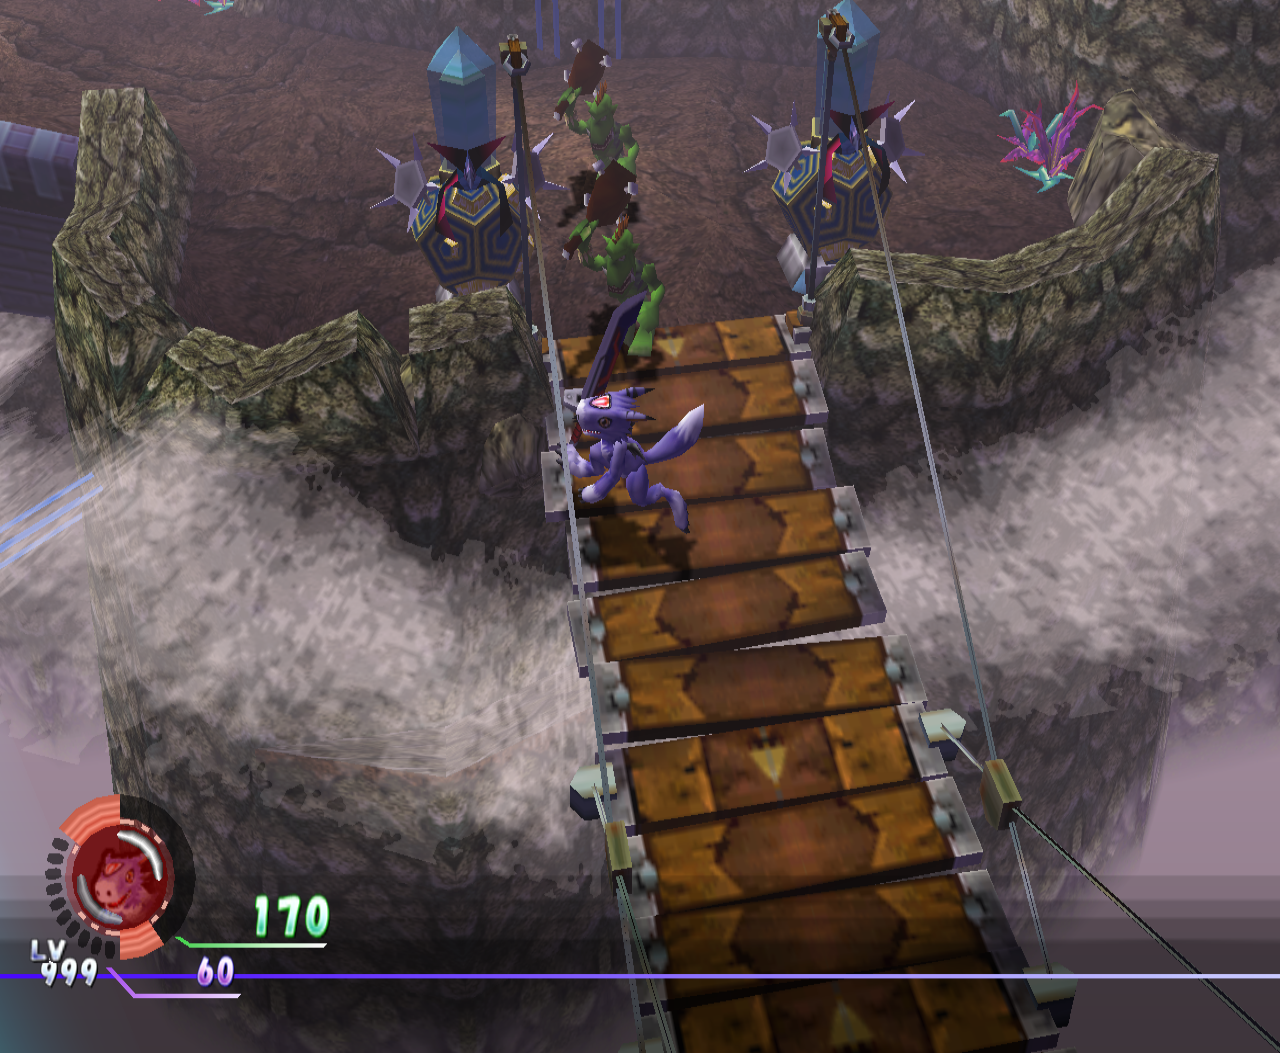
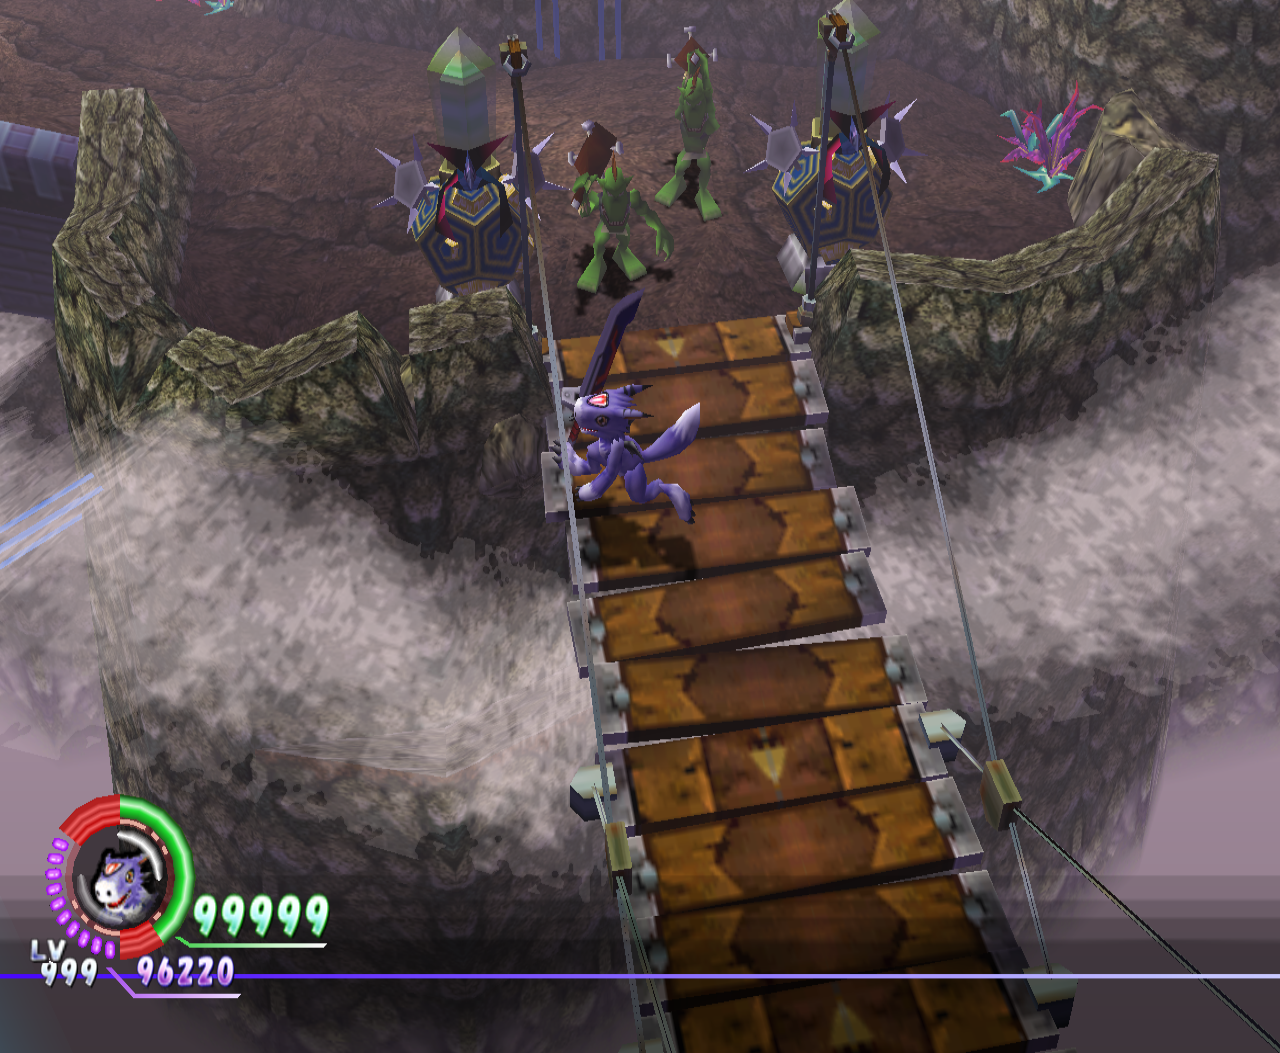
Lead README with full-health gameplay comparison

diff --git a/README.md b/README.md
@@ -4,6 +4,20 @@
 [![CI Windows](https://img.shields.io/github/actions/workflow/status/crashbashash/DW4_Crown_Mod/ci-windows.yml?label=CI%20Windows&branch=main)](https://github.com/crashbashash/DW4_Crown_Mod/actions/workflows/ci-windows.yml)
 [![Release](https://img.shields.io/github/actions/workflow/status/crashbashash/DW4_Crown_Mod/release.yml?label=Release)](https://github.com/crashbashash/DW4_Crown_Mod/actions/workflows/release.yml)
 
+| Original game | Crown Mod — four-player spawns and random crown colours |
+| --- | --- |
+| ![Two Goburimon at the first Goblin Pass bridge in the original game](docs/images/goblin-pass-original.png) | ![Five Goburimon at the same bridge with four-player spawns, showing green, blue, pink, white and yellow crowns](docs/images/goblin-pass-crown-mod.png) |
+
+The first bridge in **Goblin Pass**, playing solo with the same World 2-ready save
+on Normal difficulty.
+
+This encounter has **two enemies in the original game and five with four-player
+spawns enabled**. Random crown colours change the icons only; the colours do not
+indicate different enemy stats or drops. Colours can repeat; this example shows
+all five available colours. Click either image for the full-size view.
+
+Gameplay captured from the GameCube version in Dolphin.
+
 **Crown Mod** is a difficulty mod for **Digimon World 4** on PS2 and GameCube. It makes enemies much
 tougher, and marks the strongest ones with a yellow crown so you can spot them.
 
@@ -35,22 +49,6 @@ Patching a clean disc leaves your original file unchanged.
 - **Tougher enemies.** Enemy health and other stats are boosted. Attack values are
   already near the game's maximum, so most of the extra difficulty comes from health
   and the other stat boosts.
-
-## In game
-
-The first bridge in **Goblin Pass**, playing solo with the same World 2-ready save
-on Normal difficulty:
-
-| Original game | Crown Mod — four-player spawns and random crown colours |
-| --- | --- |
-| ![Two Goburimon at the first Goblin Pass bridge in the original game](docs/images/goblin-pass-original.png) | ![Five Goburimon at the same bridge with four-player spawns, showing green, blue, pink, white and yellow crowns](docs/images/goblin-pass-crown-mod.png) |
-
-This encounter has **two enemies in the original game and five with four-player
-spawns enabled**. Random crown colours change the icons only; the colours do not
-indicate different enemy stats or drops. Colours can repeat; this example shows
-all five available colours. Click either image for the full-size view.
-
-Gameplay captured from the GameCube version in Dolphin.
 
 ## What you need
 
